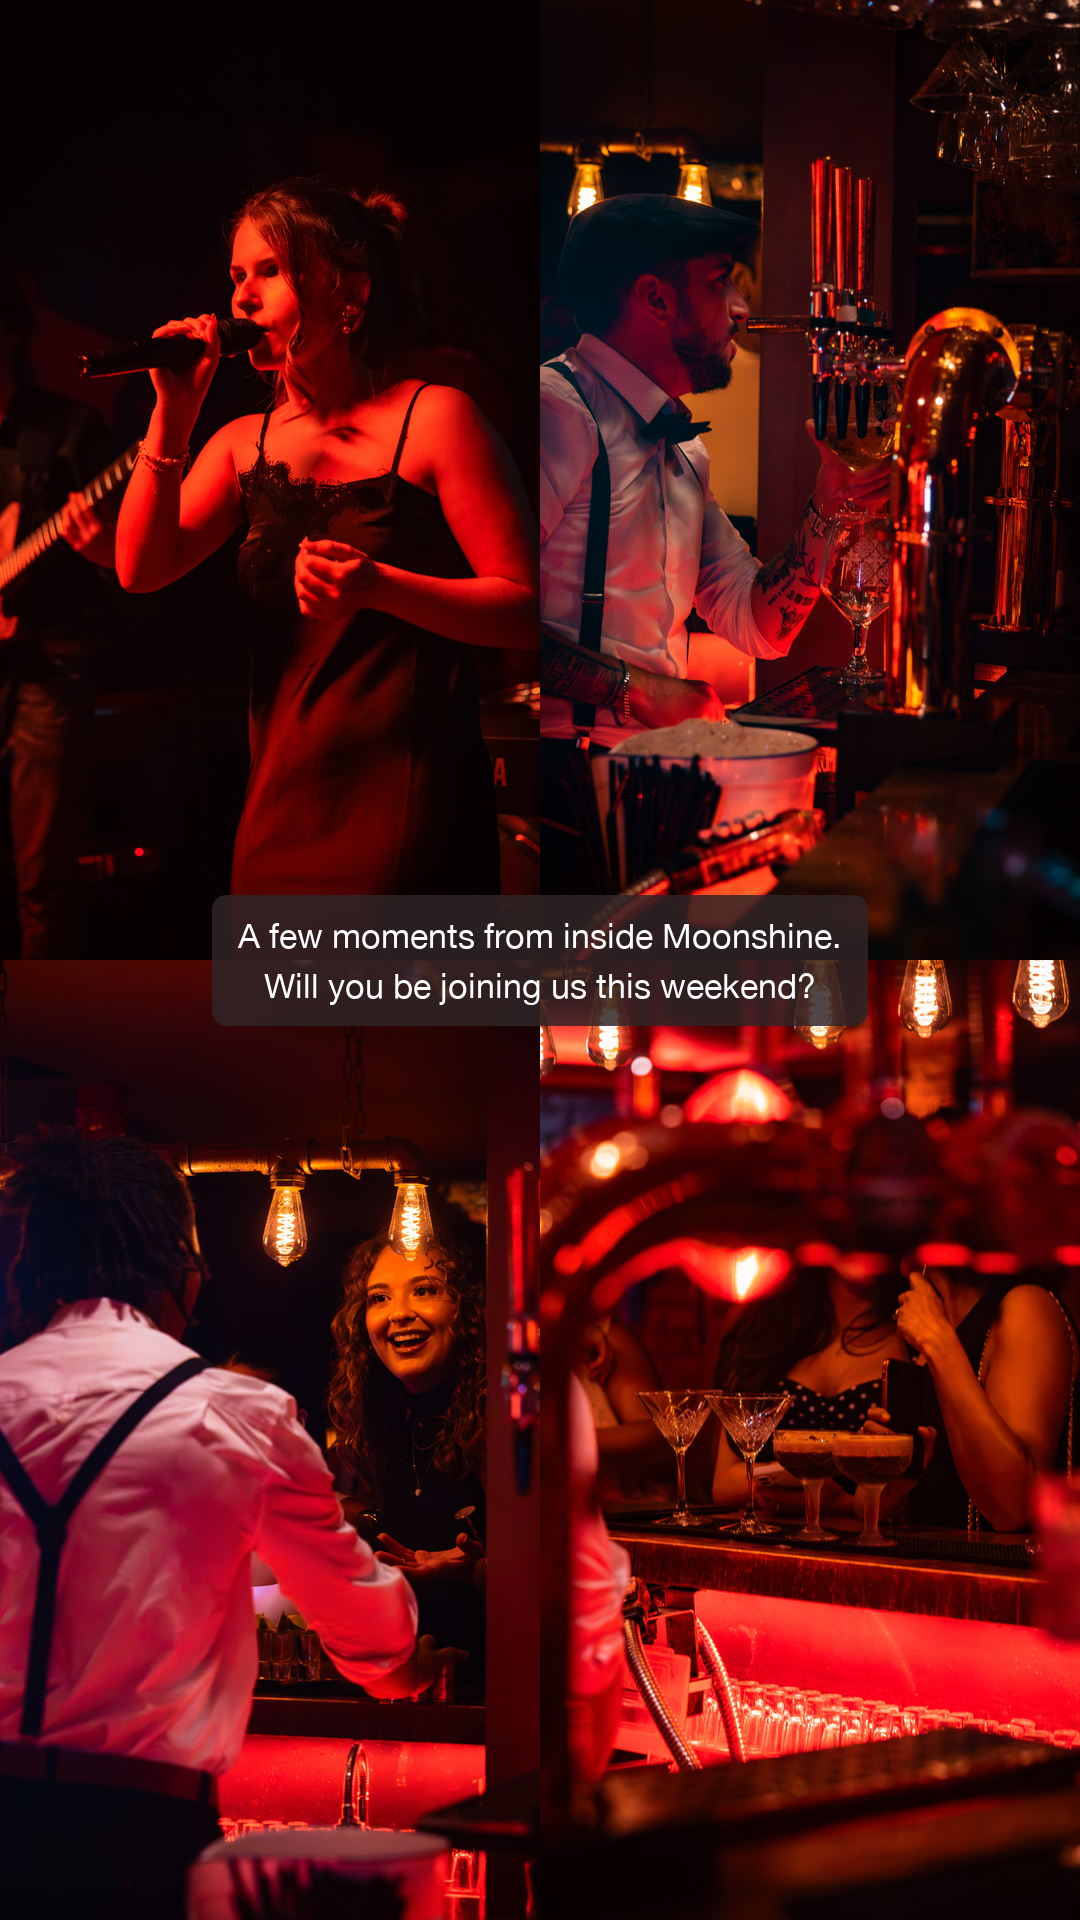
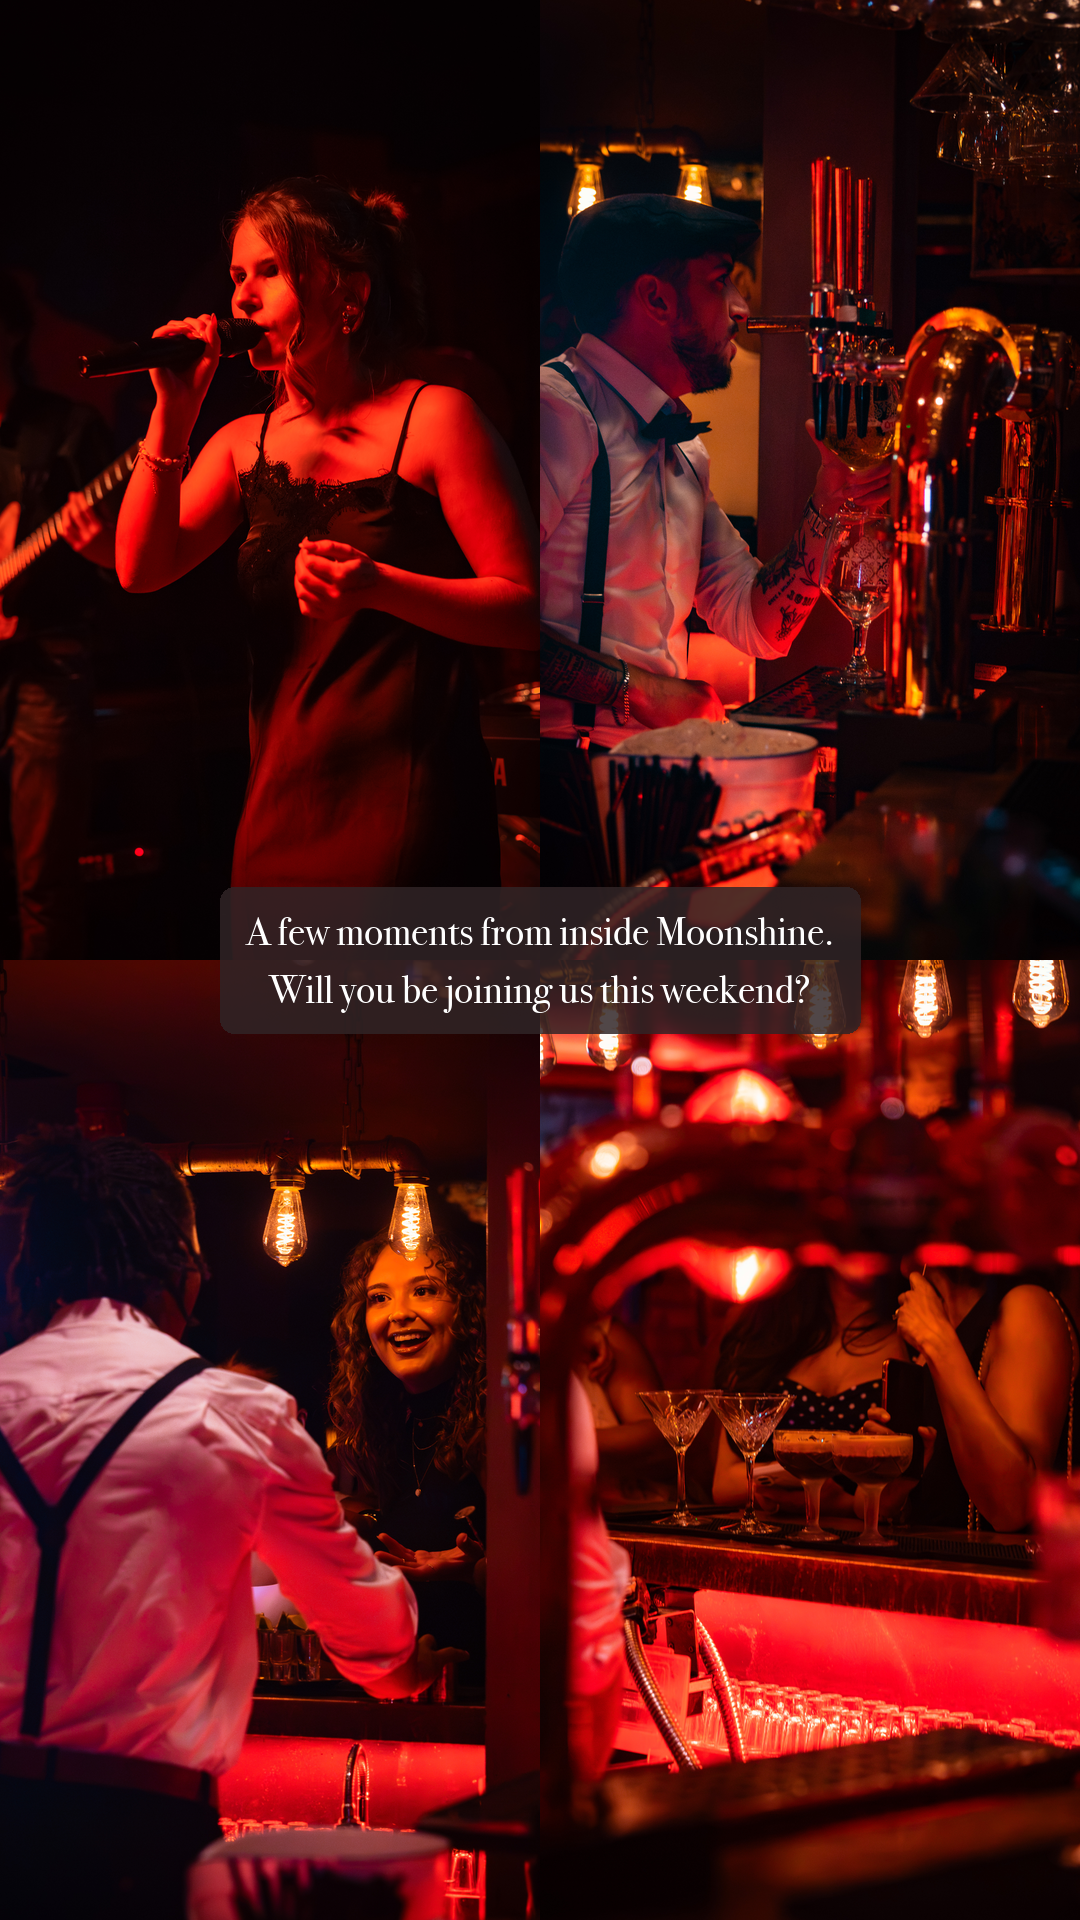
hub snapshot

Changed region(s): [[0.1833, 0.4375, 0.7944, 0.5625], [0.7944, 0.4688, 0.825, 0.5312]]

diff --git a/serve.py b/serve.py
@@ -89,7 +89,7 @@ def _crop_45(src, dst, pos):
     img.save(dst, "JPEG", quality=92)
 
 
-def build_export(venue, week):
+def build_export(venue, week, day=None):
     """The week as a handover zip: w-c folder, grid post + story post,
     numbered day files, baked 4:5 carousel crops, placeholders for gaps,
     captions.txt so anyone can post it."""
@@ -101,6 +101,8 @@ def build_export(venue, week):
         raise ValueError("unknown week")
     wdir = week_dir(venue, week)
     label = _slug(data.get("label") or ("w c " + week))
+    if day:
+        label = f"{label} {_slug(day)}"
     stage = tempfile.mkdtemp(prefix="hub-export-")
     root = os.path.join(stage, label)
     gdir = os.path.join(root, "grid post")
@@ -116,12 +118,14 @@ def build_export(venue, week):
     captions = {"grid post": [], "story post": []}
     for kind, outdir, foldername in (("grid", gdir, "grid post"), ("story", sdir, "story post")):
         slots = sorted([s for s in data["slots"] if s.get("kind") == kind], key=day_sort)
+        if day:
+            slots = [s for s in slots if (s.get("day") or "").lower().startswith(day.lower())]
         n = 0
         for s in slots:
             n += 1
-            day = _slug(s.get("day"))
+            dayslug = _slug(s.get("day"))
             title = _slug(s.get("title") or s.get("slot"))
-            base = f"{n} {day} {title}".strip()
+            base = f"{n} {dayslug} {title}".strip()
             status = s.get("status", "")
             approved = status in ("approved", "posted")
             media = s.get("media") or []
@@ -149,7 +153,7 @@ def build_export(venue, week):
                         dst = os.path.join(outdir, base + suffix + flag + ext)
                         shutil.copyfile(src, dst)
             cap = (s.get("caption") or "").strip()
-            captions[foldername].append(f"{n} {day} {title}  [{status}]\n{cap or '(no caption yet)'}\n")
+            captions[foldername].append(f"{n} {dayslug} {title}  [{status}]\n{cap or '(no caption yet)'}\n")
 
     with open(os.path.join(root, "captions.txt"), "w") as f:
         f.write("GRID POSTS\n==========\n\n" + "\n".join(captions["grid post"]))
@@ -234,10 +238,11 @@ class Handler(SimpleHTTPRequestHandler):
             q = parse_qs(u.query)
             venue = q.get("venue", [""])[0]
             week = q.get("week", [""])[0]
+            day = q.get("day", [""])[0] or None
             if venue not in VENUES:
                 return self._json({"error": "unknown venue"}, 400)
             try:
-                zpath = build_export(venue, week)
+                zpath = build_export(venue, week, day)
             except Exception as e:
                 return self._json({"error": str(e)}, 500)
             with open(zpath, "rb") as f:

diff --git a/tools/collage_story.py b/tools/collage_story.py
@@ -15,14 +15,18 @@ import os
 from PIL import Image, ImageDraw, ImageFont
 
 W, H = 1080, 1920
-FONTS = [
+SERIF = [
+    "/System/Library/Fonts/Supplemental/Bodoni 72.ttc",
+    "/System/Library/Fonts/Supplemental/Bodoni 72 OS.ttc",
+]
+SANS = [
     "/System/Library/Fonts/HelveticaNeue.ttc",
     "/System/Library/Fonts/Helvetica.ttc",
 ]
 
 
-def load_font(size):
-    for path in FONTS:
+def load_font(size, family="serif"):
+    for path in (SERIF if family == "serif" else SANS):
         try:
             return ImageFont.truetype(path, size)
         except Exception:
@@ -42,6 +46,8 @@ p = argparse.ArgumentParser()
 p.add_argument("--photos", nargs=4, required=True)
 p.add_argument("--caption", default="")
 p.add_argument("--top", type=int, default=0)
+p.add_argument("--font", choices=["serif", "sans"], default="serif")
+p.add_argument("--size", type=int, default=40)
 p.add_argument("--out", required=True)
 a = p.parse_args()
 
@@ -59,7 +65,7 @@ for i, path in enumerate(a.photos):
 if a.caption:
     d = ImageDraw.Draw(canvas, "RGBA")
     lines = a.caption.split("\n")
-    font = load_font(34)
+    font = load_font(a.size, a.font)
     pad_x, pad_y, gap = 26, 20, 10
     widths = [d.textbbox((0, 0), ln, font=font)[2] for ln in lines]
     line_h = d.textbbox((0, 0), "Hg", font=font)[3]
